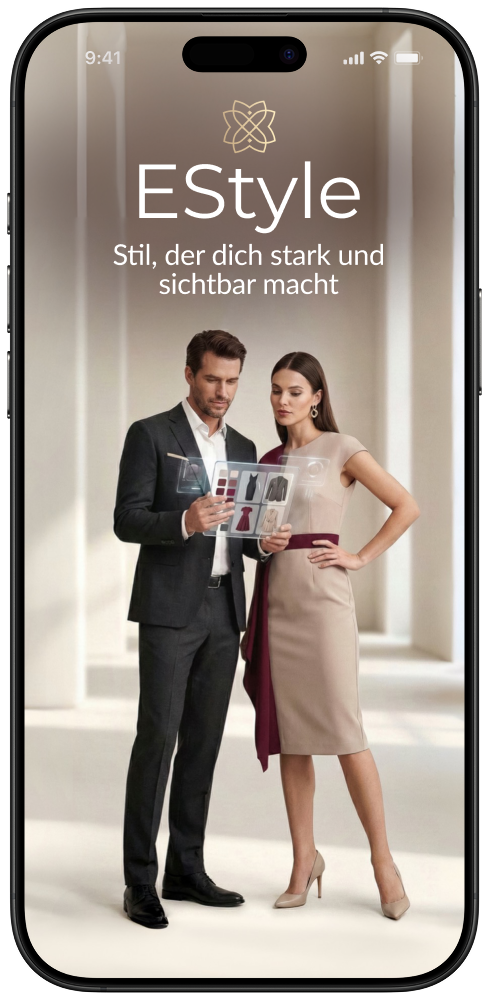
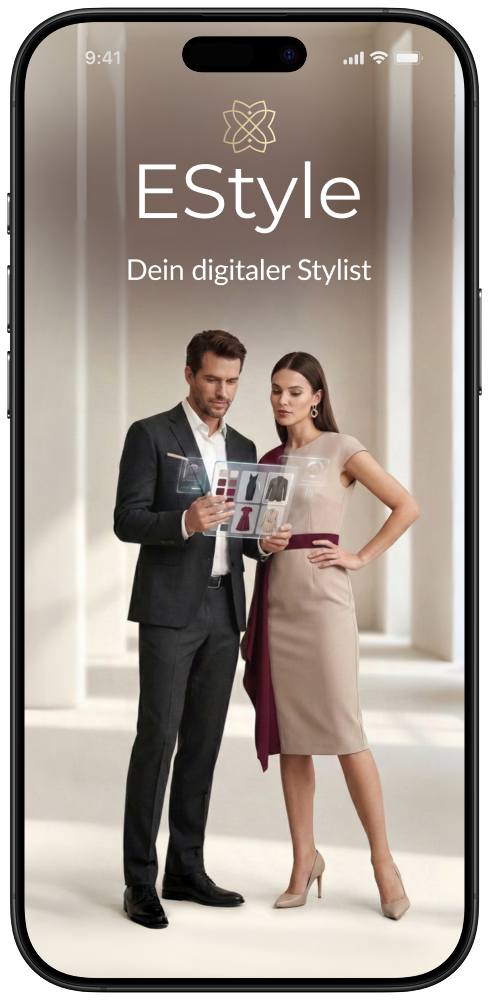
update estyle picture

Changed region(s): [[0.2147, 0.248, 0.7975, 0.31]]

diff --git a/content/de/estyle/index.md b/content/de/estyle/index.md
@@ -1,60 +1,32 @@
 ---
-title: "EStyle – Dein Stilberater"
+title: "EStyle – Ihr Stilberater"
 eyebrow: "Digitales Angebot von Natalia Kleemann"
 image: "images/estyle-app.png"
 ---
 
-**EStyle** ist mein digitales Angebot für alle, die sich mehr Stilsicherheit im Alltag wünschen:
-schnell, verständlich und ohne Fehlkäufe.
+**EStyle** bringt Ihnen digitale Stilberatung in einen klaren, schnellen Ablauf.
+Statt allgemeiner Mode-Tipps erhalten Sie konkrete Orientierung für Ihren Alltag: Was passt zu Ihnen, was lässt sich sinnvoll kombinieren und was können Sie beim Kauf weglassen.
 
-Die Idee hinter EStyle: professionelle Stil- und Farbberatung aus dem 1:1-Coaching digital zugänglich zu machen. So wird Stilkompetenz für deutlich mehr Menschen erreichbar.
+## Was Sie konkret bekommen
 
-## Was EStyle leistet
+- **Schnelle Stil-Impulse im Chat:** kurze, direkte Empfehlungen ohne lange Vorbereitung
+- **Farb- und Stil-Orientierung:** klarere Entscheidungen bei Outfit und Einkauf
+- **Kombinationsideen für vorhandene Teile:** mehr aus Ihrer Garderobe herausholen statt ständig neu kaufen
+- **Weniger Fehlkäufe:** bessere Trefferquote durch stimmigere Auswahl
 
-EStyle verbindet drei Ebenen:
+## Für wen EStyle besonders hilfreich ist
 
-- KI-basierte Typ- und Farbanalyse
-- fundierte Stiltheorie
-- alltagstaugliche Empfehlungen für konkrete Kaufsituationen
+EStyle ist für Menschen, die im Beruf und Alltag sicher auftreten möchten und sich beim Shoppen eine klare, praktische Entscheidungshilfe wünschen.
 
-Dadurch erhältst du nicht nur Inspiration, sondern klare Entscheidungen: Welche Farben stehen dir?
-Welche Teile passen wirklich zu dir? Und was kannst du sinnvoll kombinieren, statt neu zu kaufen?
+## Aktueller Stand
 
-## Kernfunktionen
+EStyle läuft aktuell als **Beta-Version** und wird laufend weiterentwickelt.
 
-- **Farbtyp-Test:** schnelle, präzise Einordnung für sichere Farbentscheidungen
-- **EStyle-ID:** persönliche Stil-Matrix als roter Faden für deinen Auftritt
-- **Outfit- und Kombinationshilfe:** alte und neue Teile smart kombinieren
-- **Garderoben-Manager (Lite):** mehr Überblick im Kleiderschrank, weniger Frust
-- **Gezielte Kaufempfehlungen:** passender einkaufen, Fehlkäufe reduzieren
+## Jetzt Beta in Telegram testen
 
-## Für wen ist EStyle gemacht?
+Starten Sie direkt im Telegram-Chat:
 
-Für Frauen und Männer zwischen 25 und 55, die:
+**[ESKYNA digital auf Telegram öffnen →](https://t.me/eskyna_bot)**
 
-- im Alltag oder Beruf sicher und stimmig auftreten wollen
-- beim Shoppen Zeit sparen möchten
-- einen bewussteren, nachhaltigeren Umgang mit Mode suchen
-
-## Das Modell
-
-EStyle ist als **Freemium-Angebot** gedacht:
-
-- **Free:** Einstieg mit Basis-Analyse
-- **Premium:** detaillierte Auswertungen, Garderoben-Features und Kombinationsempfehlungen
-- **Optional:** zusätzliche Reports oder 1:1-Session als Hybrid-Angebot
-
-## EStyle Pro (B2B)
-
-Neben dem Endkunden-Angebot gibt es mit **EStyle Pro** auch eine Variante für Handel und Boutiquen:
-digitale Stilberatung direkt am Point of Sale, als SaaS-Lösung für bessere Beratung, höhere Conversion
-und weniger Retouren.
-
-Wenn du EStyle als Nutzer:in oder als B2B-Partner spannend findest, schreib mir gerne:
+Wenn Sie Fragen zu EStyle oder zur B2B-Nutzung haben:
 **[estyle@eskyna.com](mailto:estyle@eskyna.com)**
-
-## Jetzt in die Warteliste eintragen
-
-EStyle befindet sich aktuell in der Entwicklung. Trag dich jetzt ein und sichere dir frühen Zugang:
-
-**[Zur Warteliste anmelden →](https://forms.gle/dFdsBhXg96MMKWdSA)**
